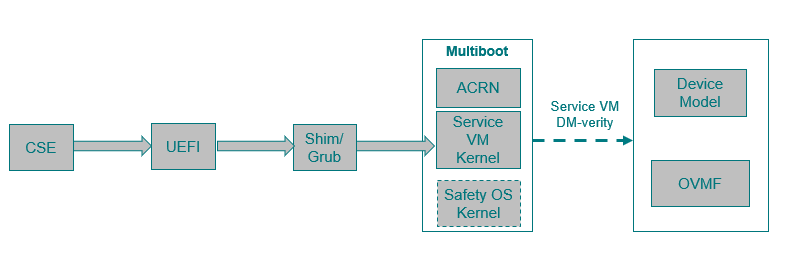
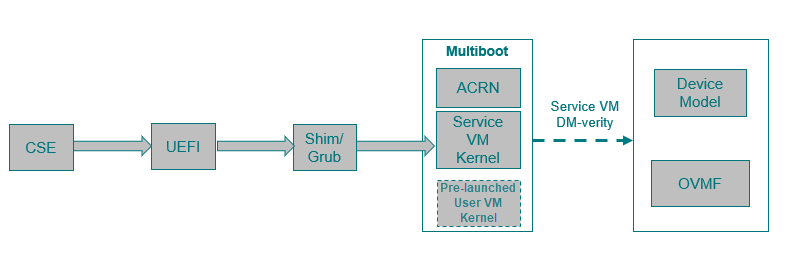
doc: terminology cleanup in secure boot GRUB
- Replace UOS or User OS with User VM
- Replace SOS or Service OS with Service VM
- Clean up some of the grammar

Changed region(s): [[0.5441, 0.697, 0.665, 0.8485]]

diff --git a/doc/tutorials/acrn-secure-boot-with-grub.rst b/doc/tutorials/acrn-secure-boot-with-grub.rst
@@ -5,16 +5,16 @@ Enable ACRN Secure Boot With GRUB
 
 This document shows how to enable ACRN secure boot with GRUB including:
 
--  ACRN Secure Boot Sequence
--  Generate GPG Key
--  Setup Standalone GRUB EFI Binary
--  Enable UEFI Secure Boot
+-  `ACRN Secure Boot Sequence`_
+-  `Generate GPG Key`_
+-  `Setup Standalone GRUB EFI Binary`_
+-  `Enable UEFI Secure Boot`_
 
 **Validation Environment:**
 
-- Hardware Platform: TGL-I7, Supported hardware described in
+- Hardware Platform: Tiger Lake, supported hardware described in
   :ref:`hardware`.
-- ACRN Scenario: Industry
+- ACRN Scenario: Shared
 - Service VM: Yocto & Ubuntu
 - GRUB: 2.04
 
@@ -25,7 +25,7 @@ This document shows how to enable ACRN secure boot with GRUB including:
 ACRN Secure Boot Sequence
 *************************
 
-ACRN can be booted by Multiboot compatible bootloader, following diagram
+ACRN can be booted by a multiboot compatible bootloader. The following diagram
 illustrates the boot sequence of ACRN with GRUB:
 
 .. image:: images/acrn_secureboot_flow.png
@@ -35,16 +35,16 @@ illustrates the boot sequence of ACRN with GRUB:
 
 For details on enabling GRUB on ACRN, see :ref:`using_grub`.
 
-From a secureboot point of view:
+From a secure boot point of view:
 
 - UEFI firmware verifies shim/GRUB
 - GRUB verifies ACRN, Service VM kernel, and pre-launched User VM kernel
 - Service VM OS kernel verifies the Device Model (``acrn-dm``) and User
   VM OVMF bootloader (with the help of ``acrn-dm``)
-- User VM virtual bootloader (e.g. OVMF) starts the guest side verified boot process
+- User VM virtual bootloader (e.g., OVMF) starts the guest side verified boot process
 
 This document shows you how to enable GRUB to
-verify ACRN binaries such ``acrn.bin``, Service VM kernel (``bzImage``), and
+verify ACRN binaries such as ``acrn.bin``, Service VM kernel (``bzImage``), and
 if present, a pre-launched User VM kernel image.
 
 .. rst-class:: numbered-step
@@ -185,9 +185,9 @@ For example::
 
 Use the output of the :command:`blkid` to find the right values for the
 UUID (``--set``) and PARTUUID (``root=PARTUUID=`` parameter) of the root
-partition (e.g. `/dev/nvme0n1p2`) according to your your hardware.
+partition (e.g., ``/dev/nvme0n1p2``) according to your hardware.
 
-Copy this new :file:`grub.cfg` to your ESP (e.g. `/boot/efi/EFI/`).
+Copy this new :file:`grub.cfg` to your ESP (e.g., ``/boot/efi/EFI/``).
 
 
 Sign grub.cfg and ACRN Binaries
@@ -196,11 +196,11 @@ Sign grub.cfg and ACRN Binaries
 The :file:`grub.cfg` and all ACRN binaries that will be loaded by GRUB
 **must** be signed with the same GPG key.
 
-Here's sequence example of signing the individual binaries::
+Here's a sequence example of signing the individual binaries::
 
     gpg --homedir keys --detach-sign path/to/grub.cfg
     gpg --homedir keys --detach-sign path/to/acrn.bin
-    gpg --homedir keys --detach-sign path/to/sos_kernel/bzImage
+    gpg --homedir keys --detach-sign path/to/service_vm_kernel/bzImage
 
 Now, you can reboot and the system will boot with the signed GRUB EFI binary.
 GRUB will refuse to boot if any files it attempts to load have been tampered
@@ -215,25 +215,25 @@ Enable UEFI Secure Boot
 Creating UEFI Secure Boot Key
 =============================
 
--Generate your own keys for Secure Boot::
+- Generate your own keys for Secure Boot::
 
     openssl req -new -x509 -newkey rsa:2048 -subj "/CN=PK/"  -keyout PK.key  -out PK.crt  -days 7300 -nodes -sha256
     openssl req -new -x509 -newkey rsa:2048 -subj "/CN=KEK/" -keyout KEK.key -out KEK.crt -days 7300 -nodes -sha256
     openssl req -new -x509 -newkey rsa:2048 -subj "/CN=db/"  -keyout db.key  -out db.crt  -days 7300 -nodes -sha256
 
--Convert ``*.crt`` keys to the ESL format understood for UEFI::
+- Convert ``*.crt`` keys to the ESL format understood for UEFI::
 
     cert-to-efi-sig-list PK.crt PK.esl
     cert-to-efi-sig-list KEK.crt KEK.esl
     cert-to-efi-sig-list db.crt db.esl
 
--Sign ESL files::
+- Sign ESL files::
 
     sign-efi-sig-list -k PK.key -c PK.crt PK PK.esl PK.auth
     sign-efi-sig-list -k PK.key -c PK.crt KEK KEK.esl KEK.auth
     sign-efi-sig-list -k KEK.key -c KEK.crt db db.esl db.auth
 
--Convert to DER format::
+- Convert to DER format::
 
     openssl x509 -outform DER -in PK.crt -out PK.der
     openssl x509 -outform DER -in KEK.crt -out KEK.der
@@ -245,6 +245,8 @@ The keys to sign bootloader image: :file:`grubx64.efi`, :file:`db.key` , :file:`
 
 Sign GRUB Image With db Key
 ===========================
+
+Command example::
 
     sbsign --key db.key --cert db.crt path/to/grubx64.efi
 
